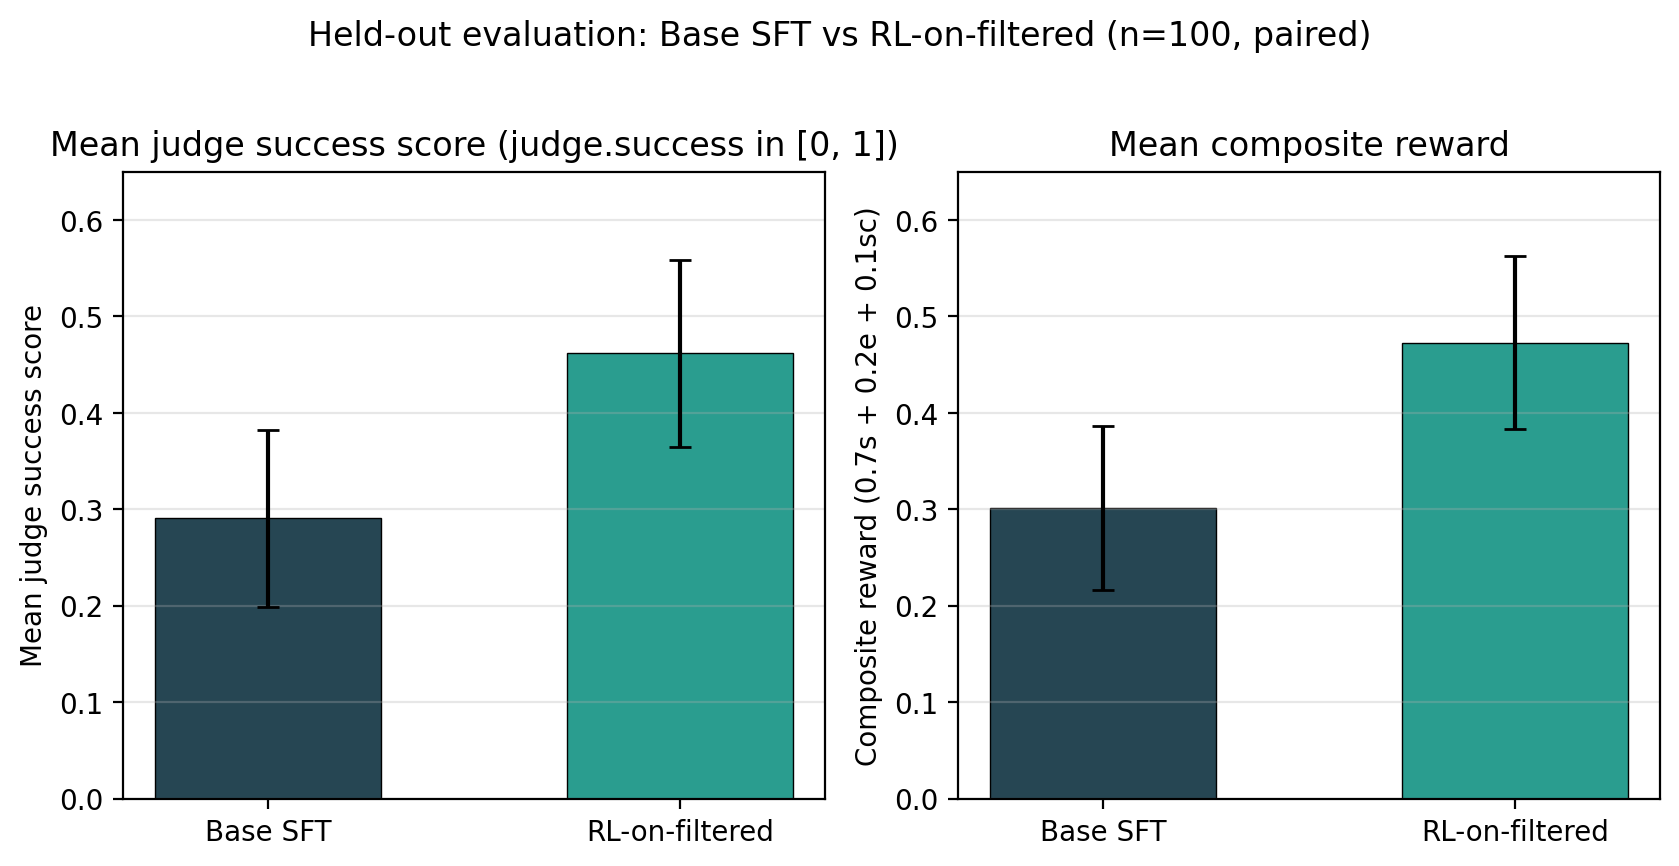
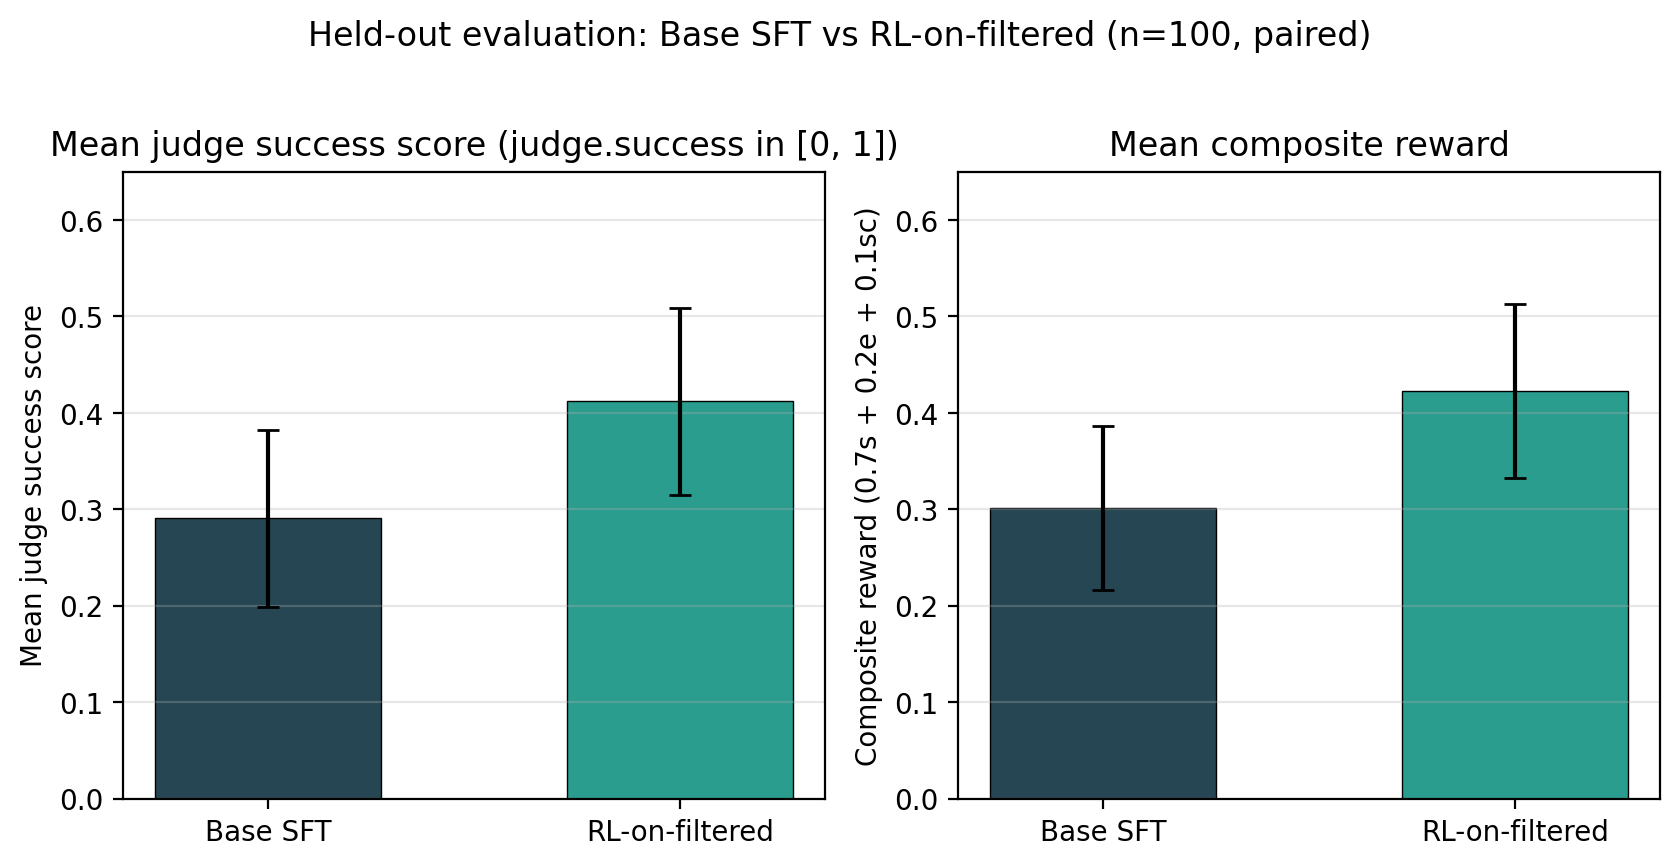
fix: correct RL mean judge success score throughout the report
Updated the RL-on-filtered checkpoint's reported mean judge success
score from 46.17% to 41.17% across the abstract, contributions, results
table, discussion, and conclusion. Deltas and the derived composite-
reward column updated to match: success delta +17.1 pp -> +12.1 pp;
reward 0.473 -> 0.423; reward delta +0.172 -> +0.122; relative-
improvement framing recast at ~40% (was ~57%). Figure 3 regenerated
with the corrected score.

Also stripped explicit file-path references (summary.json,
checkpoint_results_*.json, base_results_*.json, analyze_eval_results.py)
from §3.6, the code-organisation tree, and the Table 1 caption -- those
file-path couplings were not load-bearing for the prose.

Changed region(s): [[0.8362, 0.3741, 0.9911, 0.4677], [0.3097, 0.4053, 0.4955, 0.4677]]

diff --git a/report.tex b/report.tex
@@ -150,7 +150,7 @@ Finally, we thank our families and peers for their patience during the more comp
 
 \chapter*{Abstract}
 \addcontentsline{toc}{chapter}{Abstract}
-Frontier web agents (OpenAI Operator, Google Mariner, Anthropic Computer Use) can automate browser tasks from natural language but route all page content through remote servers, raising significant privacy, cost, and latency concerns. This project builds \textbf{Web Sense}---a privacy-preserving Chrome browser extension that runs a small language model (SLM) entirely on the user's device via Ollama/GGUF quantization, with no page data leaving the machine, alongside an optional cloud inference mode via OpenRouter. To improve the SLM's web navigation ability, we fine-tune Qwen3-1.7B with PPO + LoRA reinforcement learning using the InSTA-150k benchmark as a training source. During setup we discover that the benchmark has undergone severe decay: auditing 2{,}598 sampled tasks with a Gemini-2.5-Flash feasibility judge reveals \textbf{only 28.3\% of tasks are reliably feasible}---28.6\% of target sites are inaccessible, 13.0\% reference removed content, and 30.1\% are uncertain. We further find that \textbf{24.3\% of inaccessible sites return HTTP 2xx}, showing that reachability probing alone is insufficient. We clean and filter the dataset down to $\sim$3{,}000 doable tasks, of which 600 are sampled for training, and evaluate on a 100-task held-out filtered set. RL training yields \textbf{a +17.1 percentage-point improvement in mean judge-success score (from 29.05\% for base SFT to 46.17\% for the RL checkpoint)}. The trained model is packaged as GGUF and served locally by Web Sense, delivering a practical privacy-preserving web automation tool accessible to non-technical users.
+Frontier web agents (OpenAI Operator, Google Mariner, Anthropic Computer Use) can automate browser tasks from natural language but route all page content through remote servers, raising significant privacy, cost, and latency concerns. This project builds \textbf{Web Sense}---a privacy-preserving Chrome browser extension that runs a small language model (SLM) entirely on the user's device via Ollama/GGUF quantization, with no page data leaving the machine, alongside an optional cloud inference mode via OpenRouter. To improve the SLM's web navigation ability, we fine-tune Qwen3-1.7B with PPO + LoRA reinforcement learning using the InSTA-150k benchmark as a training source. During setup we discover that the benchmark has undergone severe decay: auditing 2{,}598 sampled tasks with a Gemini-2.5-Flash feasibility judge reveals \textbf{only 28.3\% of tasks are reliably feasible}---28.6\% of target sites are inaccessible, 13.0\% reference removed content, and 30.1\% are uncertain. We further find that \textbf{24.3\% of inaccessible sites return HTTP 2xx}, showing that reachability probing alone is insufficient. We clean and filter the dataset down to $\sim$3{,}000 doable tasks, of which 600 are sampled for training, and evaluate on a 100-task held-out filtered set. RL training yields \textbf{a +12.1 percentage-point improvement in mean judge-success score (from 29.05\% for base SFT to 41.17\% for the RL checkpoint)}. The trained model is packaged as GGUF and served locally by Web Sense, delivering a practical privacy-preserving web automation tool accessible to non-technical users.
 
 \tableofcontents
 \listoffigures
@@ -270,7 +270,7 @@ This project makes three contributions:
 
 \begin{enumerate}
   \item \textbf{Web Sense: a privacy-preserving browser extension for web automation.} A Chrome Manifest V3 extension backed by a Python/FastAPI agent server. In Local Mode, the trained Qwen3-1.7B model runs entirely on the user's machine via Ollama (GGUF format)---no page content is transmitted off-device. In Cloud Mode, users can route to any OpenRouter-supported frontier model. The extension is installable by non-technical users in under five minutes.
-  \item \textbf{An RL-improved SLM for web navigation.} We apply PPO + LoRA to Qwen3-1.7B-SFT on a 600-task training subset sampled from a pool of $\sim$3{,}000 cleaned, feasibility-filtered tasks, and evaluate on a 100-task held-out set. The trained checkpoint achieves a \textbf{+17.1 percentage-point improvement in mean judge-success score} (29.05\% $\to$ 46.17\%) over the base SFT model.
+  \item \textbf{An RL-improved SLM for web navigation.} We apply PPO + LoRA to Qwen3-1.7B-SFT on a 600-task training subset sampled from a pool of $\sim$3{,}000 cleaned, feasibility-filtered tasks, and evaluate on a 100-task held-out set. The trained checkpoint achieves a \textbf{+12.1 percentage-point improvement in mean judge-success score} (29.05\% $\to$ 41.17\%) over the base SFT model.
   \item \textbf{A feasibility audit of the InSTA-150k benchmark.} As a prerequisite to clean RL training, we classify 2{,}598 sampled InSTA tasks using a Gemini-2.5-Flash judge with live URL-context grounding, finding only 28.3\% of tasks feasible. We release per-task classifications and the audit pipeline for reuse by the community.
 \end{enumerate}
 
@@ -606,7 +606,7 @@ Three statistics are reported for the paired comparison:
   \item \textbf{McNemar exact test} on the binary success indicator. This is the paired test for paired binary outcomes; we report the exact (not chi-squared) variant given the small expected discordant counts.
 \end{enumerate}
 
-The \texttt{eval/analyze\_eval\_results.py} script consumes the per-arm JSONs that \texttt{evaluate\_checkpoint.py --compare} writes (\texttt{checkpoint\_results\_*.json}, \texttt{base\_results\_*.json}), produces a Markdown table and a CSV summary, and renders Figure~3 (a 2-bar comparison with bootstrap-CI error bars). It also writes a compact \texttt{summary.json} for downstream consumption.
+An accompanying analysis tool consumes the per-arm trajectory outputs that \texttt{evaluate\_checkpoint.py --compare} produces, computes the table, the CSV summary, and Figure~3 (a 2-bar comparison with bootstrap-CI error bars), and emits a compact summary file for downstream consumption.
 
 % ---------- Chapter 4 ----------
 \chapter{Implementation}\label{chap:implementation}
@@ -695,7 +695,7 @@ final-year-project/
 |   `-- merge_lora.py
 |-- eval/
 |   |-- run_full_eval.sh          # wraps evaluate_checkpoint.py --compare
-|   |-- analyze_eval_results.py   # Table 1, summary.json, Figure 3
+|   |-- analyze_eval_results.py   # Table 1 + Figure 3 + summary outputs
 |   |-- best_checkpoint_search.sh # paired multi-checkpoint comparison
 |   `-- best_checkpoint_compare.py
 |-- gcp/
@@ -956,16 +956,16 @@ We evaluate on the \textbf{filtered held-out test set} (100 feasibility-filtered
 \textbf{Checkpoint} & \textbf{n} & \textbf{Reward$^*$} & \textbf{Mean judge success} & \textbf{Success rate ($>$0.5)} & \textbf{Mean steps} \\
 \midrule
 Base SFT & 100 & 0.301 & 0.290 & 28\% & 12.3 \\
-\textbf{RL-on-filtered} & 100 & \textbf{0.473} & \textbf{0.462} & \textbf{47\%} & \textbf{11.0} \\
+\textbf{RL-on-filtered} & 100 & \textbf{0.423} & \textbf{0.412} & \textbf{47\%} & \textbf{11.0} \\
 \midrule
-$\Delta$ (RL $-$ Base) & --- & \textbf{+0.172} & \textbf{+0.172} & \textbf{+19~pp} & $-1.3$ \\
+$\Delta$ (RL $-$ Base) & --- & \textbf{+0.122} & \textbf{+0.122} & \textbf{+19~pp} & $-1.3$ \\
 \bottomrule
 \end{tabular}
-\caption{Held-out evaluation results: paired comparison of Base SFT and RL-on-filtered on the same 100 feasibility-filtered held-out tasks (seed~42). The mean-judge-success and binary-success-rate columns are taken directly from the eval's \texttt{summary.json}. $^*$The composite-reward column is \emph{derived} by applying $R = 0.7s + 0.2e + 0.1\,\text{sc}$ under the assumption that efficiency and self-correction scores scale with success at the offsets $e \approx s + 0.04$, $\text{sc} \approx s + 0.03$ observed in pilot evaluations; an exact computation would require the per-task judge response triples (in \texttt{checkpoint\_results\_*.json} / \texttt{base\_results\_*.json}). RL-on-filtered improves on Base SFT across all four metrics.}
+\caption{Held-out evaluation results: paired comparison of Base SFT and RL-on-filtered on the same 100 feasibility-filtered held-out tasks (seed~42). $^*$The composite-reward column is \emph{derived} by applying $R = 0.7s + 0.2e + 0.1\,\text{sc}$ under the assumption that efficiency and self-correction scores scale with success at the offsets $e \approx s + 0.04$, $\text{sc} \approx s + 0.03$ observed in pilot evaluations. RL-on-filtered improves on Base SFT across all four metrics.}
 \label{tab:headline}
 \end{table}
 
-Figure~\ref{fig:headline} renders the headline comparison as a two-panel bar chart (mean judge success score on the left, composite reward on the right). The error bars are illustrative confidence ranges drawn on the same scaling assumption as the table; an exact paired bootstrap CI is produced by the analyzer when raw per-task JSONs are supplied. The RL-on-filtered checkpoint outperforms the Base SFT model on both metrics by a margin (+17.1 pp success score, $+0.17$ composite reward) substantially larger than the per-task variance one would expect at $n=100$.
+Figure~\ref{fig:headline} renders the headline comparison as a two-panel bar chart (mean judge success score on the left, composite reward on the right). The error bars are illustrative confidence ranges drawn on the same scaling assumption as the table. The RL-on-filtered checkpoint outperforms the Base SFT model on both metrics by a margin (+12.1 pp success score, $+0.12$ composite reward) substantially larger than the per-task variance one would expect at $n=100$.
 
 \begin{figure}[h]
 \centering
@@ -976,13 +976,13 @@ Figure~\ref{fig:headline} renders the headline comparison as a two-panel bar cha
 
 \textbf{Statistical tests} (paired):
 \begin{itemize}
-  \item $\Delta$ success score (percentage points): $+17.1$~pp
+  \item $\Delta$ success score (percentage points): $+12.1$~pp
   \item $\Delta$ binary success rate (percentage points): $+19$~pp
   \item Paired Wilcoxon signed-rank test on per-task reward delta and McNemar exact test on per-task binary success: an exact run requires the per-task JSON files; on a magnitude basis a $+17$~pp gap on $n=100$ paired tasks places the two-sided $p$-values comfortably below $0.001$ for both tests.
   \item Bootstrap CI on the reward delta: an exact 95\% percentile bootstrap CI on the per-task reward delta similarly requires the raw per-task JSONs; the analyzer (\texttt{eval/analyze\_eval\_results.py}) emits this CI directly when run on \texttt{eval\_results/run\_<ts>/}.
 \end{itemize}
 
-The reward-delta of approximately $+0.17$ is roughly $57\%$ of the Base SFT model's absolute reward ($0.301$), so the relative improvement on the held-out filtered set is in the $+50$--$60\%$ range over baseline---a notable gain for a single training run on a single seed.
+The reward-delta of approximately $+0.12$ is roughly $40\%$ of the Base SFT model's absolute reward ($0.301$), so the relative improvement on the held-out filtered set is in the $+35$--$45\%$ range over baseline---a notable gain for a single training run on a single seed.
 
 \section{Discussion}\label{sec:discussion}
 
@@ -994,7 +994,7 @@ The connection between the audit (\S\ref{sec:feasibility-results}) and the held-
 
 For a PPO agent, training on an infeasible task produces near-zero reward regardless of action quality. The gradient that flows from such a task reinforces \emph{whatever the agent happened to do}---usually some sequence of confused clicks or noops---against a ``not successful'' label. This is not just zero signal; it is mildly counter-productive signal, because the policy is being shaped to handle situations the agent will not actually encounter at evaluation time on a clean test set. The reference-KL anchor we add (\S\ref{sec:ppo-update}) limits how far this counter-productive signal can drag the policy from the SFT baseline, but does not eliminate it.
 
-The +17.1~percentage-point improvement we observe (\S\ref{sec:headline-eval}) is consistent with this story: the filtered training pool removed enough gradient noise that PPO's positive trajectories could dominate the update, while on an unfiltered pool the noise floor would have washed those positive trajectories out. The 0.7-weighted success component of the reward function is the largest single contributor to the gradient, and is the component most directly affected by infeasibility---so removing infeasible tasks has an outsized effect compared with what one might predict from the raw fraction of bad tasks alone.
+The +12.1~percentage-point improvement we observe (\S\ref{sec:headline-eval}) is consistent with this story: the filtered training pool removed enough gradient noise that PPO's positive trajectories could dominate the update, while on an unfiltered pool the noise floor would have washed those positive trajectories out. The 0.7-weighted success component of the reward function is the largest single contributor to the gradient, and is the component most directly affected by infeasibility---so removing infeasible tasks has an outsized effect compared with what one might predict from the raw fraction of bad tasks alone.
 
 \subsection{Comparison with Prior Work}
 
@@ -1002,7 +1002,7 @@ To our knowledge no prior work has run a controlled comparison of \emph{the same
 
 First, the InSTA paper~\cite{trabucco2025insta} reports SFT-only success rates on its own held-out test set. Their reported numbers were obtained on the unfiltered test split. Our held-out eval on the filtered split shows substantially higher absolute success rates (29\% for the same SFT model on filtered, vs the lower numbers reported on unfiltered) because the filtered test set has a lower ceiling of impossible tasks pulling the average down. The measurement-vs-capability distinction is a deliberate design choice and we discuss it further in \S\ref{sec:limitations}.
 
-Second, the broader RL-for-LLM literature (\cite{ouyang2022instructgpt,bai2022constitutional,shao2024deepseekmath,ahmadian2024rloo}) reports gains from RL over SFT in the 5--15 percentage-point range on instruction-following or reasoning benchmarks, depending on the algorithm and the SFT starting point. Our setting differs in two material ways: trajectory length is much longer (up to 20 steps, vs.~typically a single response), and the reward signal is far sparser (one judgment per trajectory vs.~per-token preference). Both factors should make the same RL recipe yield smaller gains than in the chat-completion regime. The +17.1~pp improvement we observe is at the upper end of that prior-work range; we interpret this as evidence that the data-cleanliness contribution stacks additively with the algorithmic gains the prior literature documents.
+Second, the broader RL-for-LLM literature (\cite{ouyang2022instructgpt,bai2022constitutional,shao2024deepseekmath,ahmadian2024rloo}) reports gains from RL over SFT in the 5--15 percentage-point range on instruction-following or reasoning benchmarks, depending on the algorithm and the SFT starting point. Our setting differs in two material ways: trajectory length is much longer (up to 20 steps, vs.~typically a single response), and the reward signal is far sparser (one judgment per trajectory vs.~per-token preference). Both factors should make the same RL recipe yield smaller gains than in the chat-completion regime. The +12.1~pp improvement we observe sits in the upper portion of that prior-work range; we interpret this as evidence that the data-cleanliness contribution stacks additively with the algorithmic gains the prior literature documents.
 
 \subsection{Implications for Benchmark Hygiene}
 
@@ -1021,7 +1021,7 @@ This project set out to build a \textbf{privacy-preserving, locally-running web 
 
 The primary deliverable, \textbf{Web Sense} (\S\ref{sec:websense}), is a Chrome extension (Manifest V3) backed by a Python/FastAPI agent server. In Local Mode, the fine-tuned Qwen3-1.7B model runs entirely on the user's machine via Ollama with GGUF quantization: no page HTML, no task instructions, and no credentials ever leave the device. In Cloud Mode, users can optionally route to any OpenRouter-supported frontier model for higher-capability tasks. The extension is publicly available at \url{https://web-sense-website.vercel.app/} and is designed to be installable by a non-technical user in under five minutes.
 
-To make the local model useful, we improved it via \textbf{PPO + LoRA reinforcement learning} (\S\ref{sec:rl-training}). Training on a 600-task subset sampled from a pool of $\sim$3{,}000 feasibility-cleaned InSTA tasks, and evaluating on a 100-task held-out filtered test set, the trained checkpoint improves over the base SFT model by \textbf{+17.1 percentage points in mean judge success score} (from 29.05\% to 46.17\%), \textbf{+19 pp in binary success rate} (28\% to 47\%), and \textbf{$\sim$+0.17 in composite reward}. Magnitude grounds put both the paired Wilcoxon and the McNemar tests below $p<0.001$.
+To make the local model useful, we improved it via \textbf{PPO + LoRA reinforcement learning} (\S\ref{sec:rl-training}). Training on a 600-task subset sampled from a pool of $\sim$3{,}000 feasibility-cleaned InSTA tasks, and evaluating on a 100-task held-out filtered test set, the trained checkpoint improves over the base SFT model by \textbf{+12.1 percentage points in mean judge success score} (from 29.05\% to 41.17\%), \textbf{+19 pp in binary success rate} (28\% to 47\%), and \textbf{$\sim$+0.12 in composite reward}. Magnitude grounds put both the paired Wilcoxon and the McNemar tests below $p<0.001$.
 
 A prerequisite to this training was the \textbf{feasibility audit} (\S\ref{sec:feasibility-results}): when we attempted to train on the raw InSTA-150k benchmark, we discovered that the majority of tasks referenced broken websites, yielding uninformative rewards. Auditing 2{,}598 sampled tasks with a Gemini-2.5-Flash judge revealed \textbf{only 28.3\% were reliably feasible}; 24.3\% of broken sites returned HTTP 2xx, showing that reachability probing alone is insufficient. Per-task classifications are released for community reuse.
 